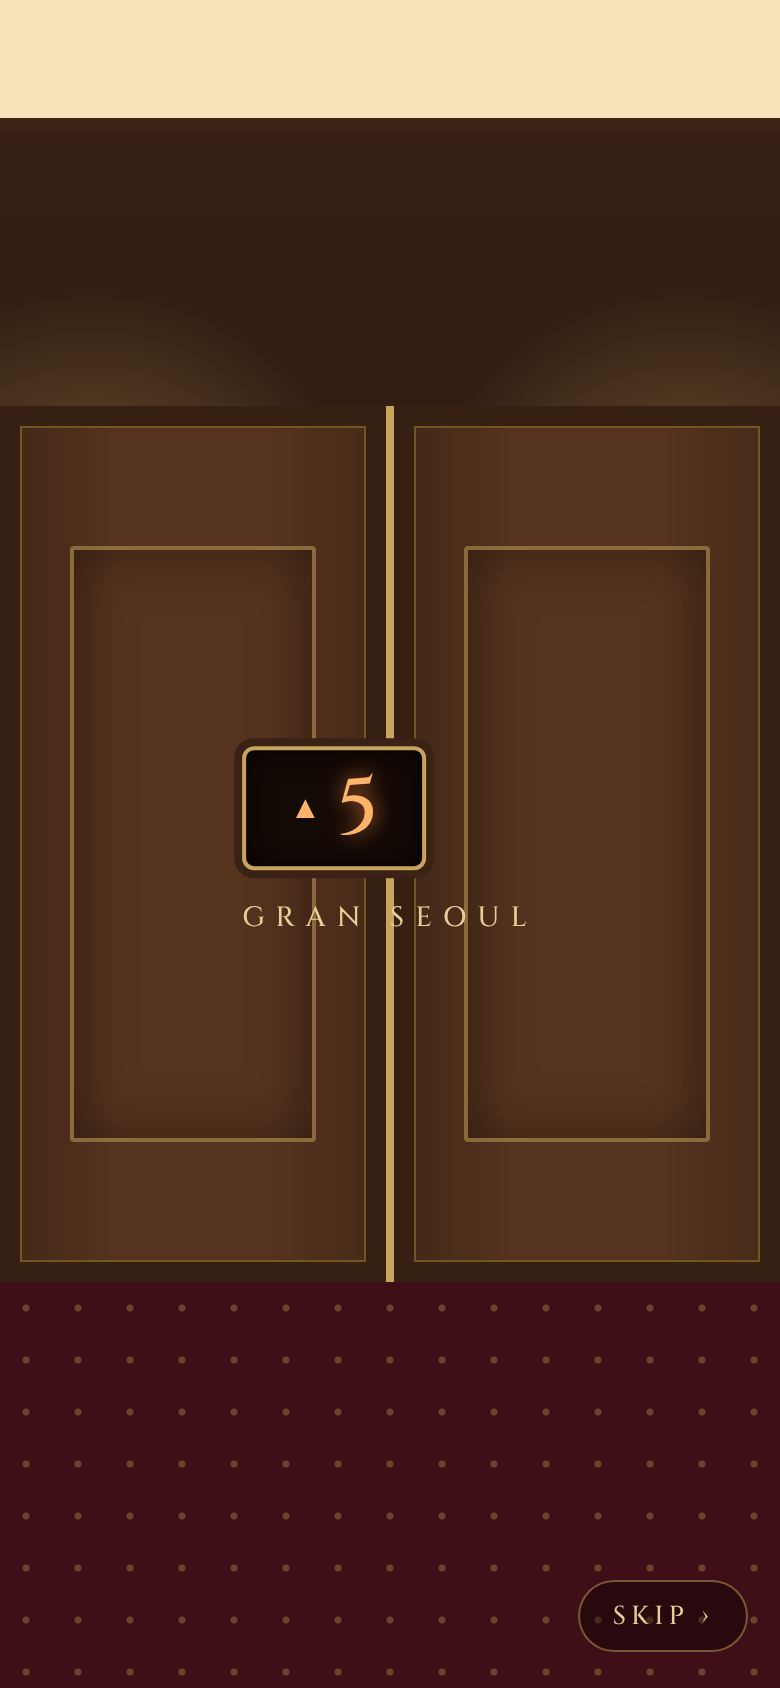
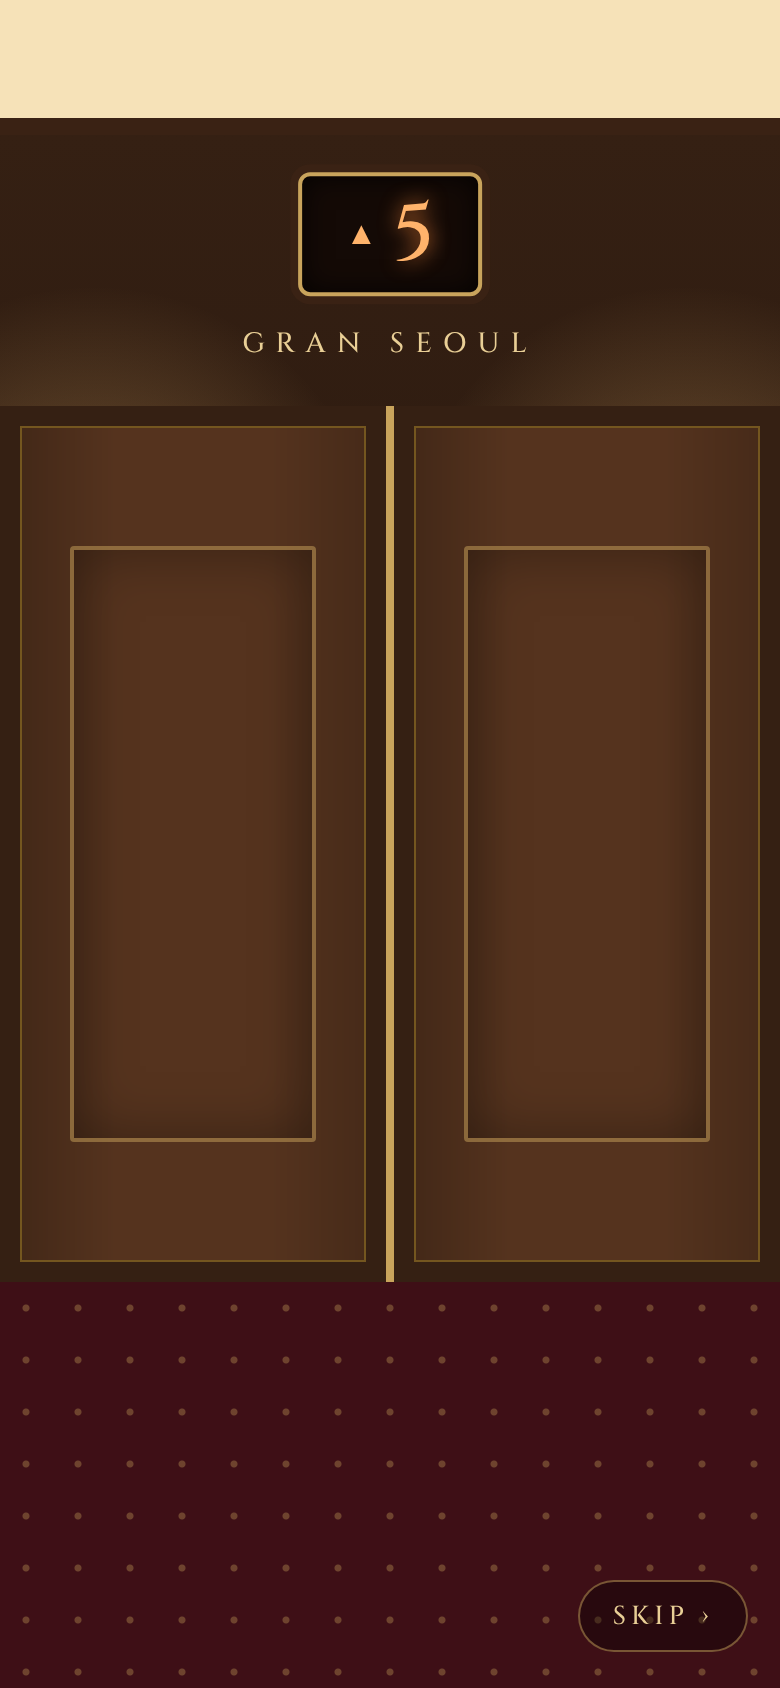
Elevator: indicator back above the doors, centered horizontally and within the wall band
Claude-Session: https://claude.ai/code/session_011z6wvs2Gb5um8vyCmLK585

diff --git a/index.html b/index.html
@@ -125,8 +125,8 @@ body.dark #ceiling{display:none}
   linear-gradient(180deg,#f6e2b8 0 7%,#3a2214 7% 8%,var(--walnut-700) 8%,var(--walnut-800) 76%,var(--burgundy-deep) 76%);transition:opacity .6s}
 #lift.out{opacity:0;pointer-events:none}
 .lift-floor{position:absolute;left:0;right:0;bottom:0;height:24%;background:radial-gradient(circle,rgba(201,164,92,.35) 1.5px,transparent 2px) 0 0/26px 26px,var(--burgundy-deep)}
-.lift-ind{position:absolute;top:50%;left:50%;transform:translate(-50%,-50%);transition:opacity .6s;z-index:3;text-align:center;font-family:var(--en);color:var(--brass-light)}
-.lift-ind .box{width:92px;height:62px;border-radius:6px;background:#140a06;border:2px solid var(--brass);display:flex;align-items:center;justify-content:center;gap:8px;font-size:40px;line-height:1;box-shadow:0 0 0 4px #3a2214,inset 0 0 14px rgba(0,0,0,.8)}
+.lift-ind{position:absolute;top:16%;left:50%;transform:translate(-50%,-50%);z-index:3;text-align:center;font-family:var(--en);color:var(--brass-light)}
+.lift-ind .box{width:92px;height:62px;margin:0 auto;border-radius:6px;background:#140a06;border:2px solid var(--brass);display:flex;align-items:center;justify-content:center;gap:8px;font-size:40px;line-height:1;box-shadow:0 0 0 4px #3a2214,inset 0 0 14px rgba(0,0,0,.8)}
 .lift-ind .box span{color:#ffb36b;text-shadow:0 0 10px rgba(255,140,60,.8);font-variant-numeric:tabular-nums}
 .lift-ind .box em{font-style:normal;font-size:16px;color:#ffb36b}
 .lift-ind.ding .box{box-shadow:0 0 0 4px #3a2214,0 0 28px rgba(255,190,110,.75),inset 0 0 14px rgba(0,0,0,.8)}
@@ -137,7 +137,6 @@ body.dark #ceiling{display:none}
 .door::after{content:'';position:absolute;inset:16% 18%;border:2px solid rgba(201,164,92,.5);border-radius:2px;box-shadow:inset 0 0 30px rgba(0,0,0,.35)}
 .door.l{left:0;border-right:2px solid var(--brass)}
 .door.r{right:0;border-left:2px solid var(--brass)}
-#lift.open .lift-ind{opacity:0}
 #lift.open .door.l{transform:translateX(-100%)}
 #lift.open .door.r{transform:translateX(100%)}
 .lift-behind{position:absolute;top:24%;bottom:24%;left:0;right:0;z-index:1;background:var(--walnut-800);overflow:hidden}
